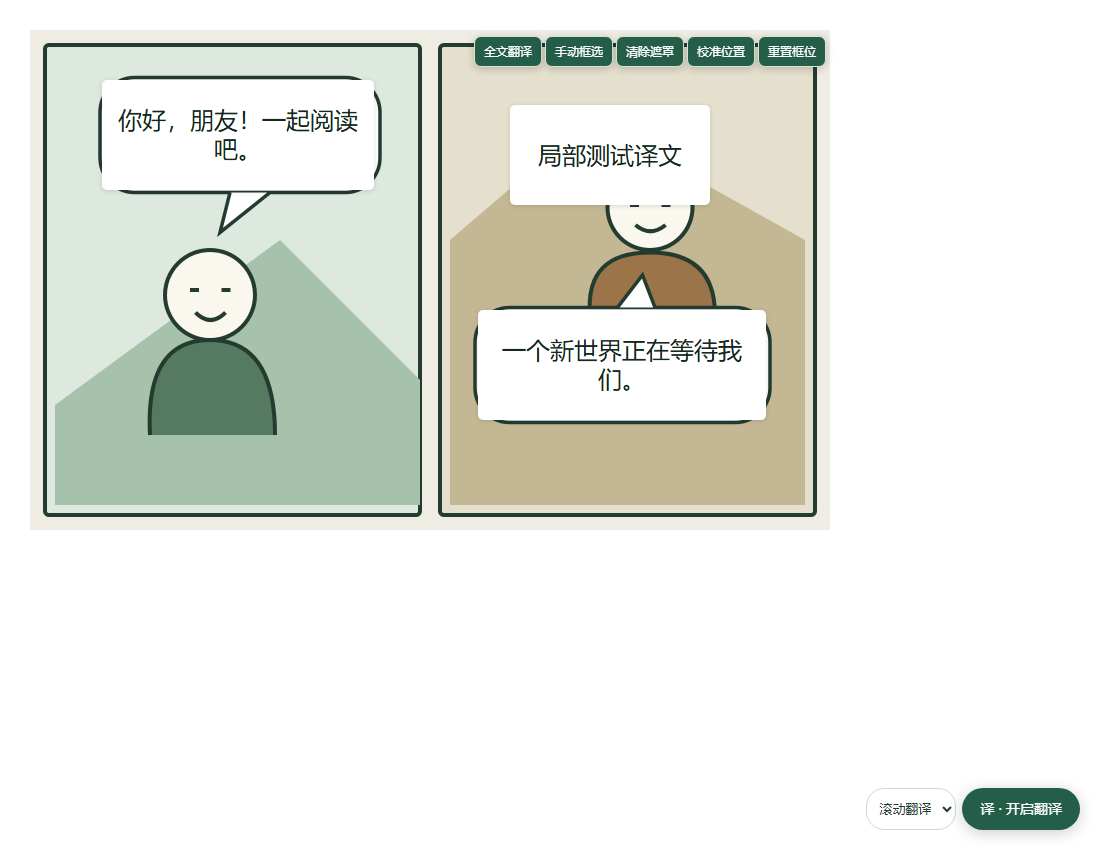
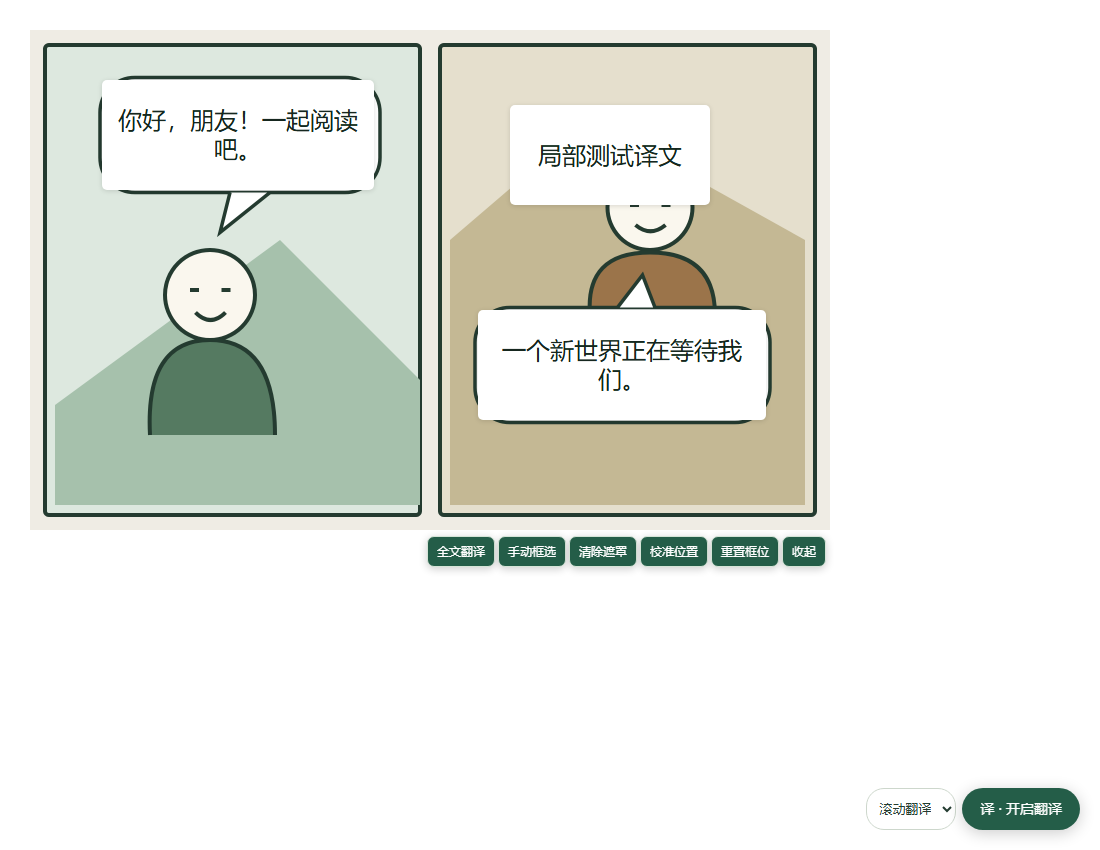
fix: keep image toolbar clear of bubble drag handles in v0.3.3

Changed region(s): [[0.3709, 0.6118, 0.7727, 0.6729], [0.4327, 0.0306, 0.7727, 0.0918]]

diff --git a/lib/image-ui.ts b/lib/image-ui.ts
@@ -5,6 +5,7 @@ import type { ImageLayout, Region } from './image-geometry';
 import { ImageOverlay } from './image-overlay';
 import { selectRegion } from './image-snip';
 import { DEFAULT_OVERLAY_STYLE, validateOverlayStyle, type OverlayStyle } from './overlay-style';
+import { placeImageToolbar } from './image-toolbar-layout';
 
 export interface ImageTransport {
   fetchImage(url:string,layout:ImageLayout):Promise<string>;
@@ -14,17 +15,32 @@ export interface ImageTransport {
 function signature(target:ImageTarget){const b=contentBox(target);return `${target instanceof HTMLImageElement?target.currentSrc:`${target.width}x${target.height}`}|${(b.w/b.h).toFixed(3)}`;}
 export function installImageUI(transport:ImageTransport,report:(text:string)=>void) {
   const host=document.createElement('div');host.dataset.blOwned='image-button';
-  Object.assign(host.style,{position:'fixed',zIndex:'2147483647',display:'none',maxWidth:'calc(100vw - 8px)'});
+  Object.assign(host.style,{position:'fixed',zIndex:'2147483647',display:'none',width:'max-content',maxWidth:'calc(100vw - 8px)'});
   const root=host.attachShadow({mode:'open'});
-  root.innerHTML='<style>:host{all:initial}.bar{display:flex;flex-wrap:wrap;gap:3px}button{font:12px system-ui;border:1px solid #d5e4d7;background:#245d48;color:#fff;border-radius:7px;padding:7px 9px;cursor:pointer;box-shadow:0 2px 8px #0003}button:disabled{opacity:.55;cursor:wait}button[hidden]{display:none}</style><div class="bar"><button id="full">全文翻译</button><button id="snip">手动框选</button><button id="clear" disabled>清除遮罩</button><button id="adjust" hidden>校准位置</button><button id="reset-layout" hidden>重置框位</button></div>';
+  root.innerHTML='<style>:host{all:initial}.bar{display:flex;flex-wrap:wrap;gap:3px;max-width:calc(100vw - 8px)}button{font:12px system-ui;border:1px solid #d5e4d7;background:#245d48;color:#fff;border-radius:7px;padding:7px 9px;cursor:pointer;box-shadow:0 2px 8px #0003}button:disabled{opacity:.55;cursor:wait}button[hidden],.bar[hidden]{display:none}</style><button id="expand" hidden aria-expanded="false" aria-controls="bar">图片工具</button><div class="bar" id="bar"><button id="full">全文翻译</button><button id="snip">手动框选</button><button id="clear" disabled>清除遮罩</button><button id="adjust" hidden>校准位置</button><button id="reset-layout" hidden>重置框位</button><button id="collapse" title="收起工具栏（Esc）" aria-label="收起图片工具栏">收起</button></div>';
   document.documentElement.append(host);
   const full=root.querySelector<HTMLButtonElement>('#full')!,snip=root.querySelector<HTMLButtonElement>('#snip')!,clear=root.querySelector<HTMLButtonElement>('#clear')!,adjust=root.querySelector<HTMLButtonElement>('#adjust')!;
   const resetLayout=root.querySelector<HTMLButtonElement>('#reset-layout')!;
+  const bar=root.querySelector<HTMLElement>('#bar')!,expand=root.querySelector<HTMLButtonElement>('#expand')!,collapse=root.querySelector<HTMLButtonElement>('#collapse')!;
+  let collapsed=false,expandedByUser=false,hideTimer:ReturnType<typeof setTimeout>|undefined;
   let style:OverlayStyle={...DEFAULT_OVERLAY_STYLE};
   let current:ImageTarget|undefined,lastContext:ImageTarget|undefined,epoch=0,cancelSelection:(()=>void)|undefined;
   const busy=new WeakSet<ImageTarget>(),overlays=new Map<ImageTarget,ImageOverlay>(),fullDone=new WeakSet<ImageTarget>();
   function overlayFor(target:ImageTarget){const o=overlays.get(target);if(o&&(o.host.dataset.stale||!o.host.isConnected)){o.destroy();overlays.delete(target);fullDone.delete(target);return undefined;}return o;}
-  function position(){if(!current?.isConnected){host.style.display='none';return;}const b=viewportContentBox(current),width=host.offsetWidth;host.style.left=`${Math.max(4,Math.min(innerWidth-width-4,b.left+b.width-width-4))}px`;host.style.top=`${Math.max(4,b.top+6)}px`;}
+  function position(){
+    if(!current?.isConnected){host.style.display='none';return;}if(host.style.display==='none')return;
+    const b=viewportContentBox(current),viewport={width:innerWidth,height:innerHeight};
+    if(b.top>=innerHeight||b.top+b.height<=0||b.left>=innerWidth||b.left+b.width<=0){host.style.visibility='hidden';return;}host.style.visibility='visible';
+    bar.hidden=collapsed;expand.hidden=!collapsed;
+    const obstacles=overlays.get(current)?.bubbleRects()??[];
+    let point=placeImageToolbar(b,{width:host.offsetWidth,height:host.offsetHeight},viewport,obstacles);
+    if(!point&&!collapsed&&!expandedByUser){bar.hidden=true;expand.hidden=false;point=placeImageToolbar(b,{width:host.offsetWidth,height:host.offsetHeight},viewport,obstacles);}
+    // If bubbles fill the viewport, keep the compact control clear of their handles.
+    if(!point)point=placeImageToolbar(b,{width:host.offsetWidth,height:host.offsetHeight},viewport,overlays.get(current)?.handleRects()??[]);
+    const width=host.offsetWidth,height=host.offsetHeight;
+    host.style.left=`${point?.left??Math.max(4,Math.min(innerWidth-width-4,b.left+b.width-width-4))}px`;
+    host.style.top=`${point?.top??Math.max(4,Math.min(innerHeight-height-4,b.top+6))}px`;
+  }
   function refresh(){const o=current?overlayFor(current):undefined;full.disabled=snip.disabled=current?busy.has(current):false;full.textContent=full.disabled?'翻译中…':'全文翻译';clear.disabled=!o;clear.textContent=o?.host.hidden?'恢复遮罩':'清除遮罩';adjust.hidden=resetLayout.hidden=!o;adjust.textContent=o?.editing?'完成校准':'校准位置';position();}
   async function translate(target:ImageTarget,crop?:Region){
     if(busy.has(target))return;
@@ -41,20 +57,25 @@ export function installImageUI(transport:ImageTransport,report:(text:string)=>vo
       if(!bubbles.length){report('所选图片中没有识别到可读对白。');return;}
       const previous=overlayFor(target);
       if(crop&&previous){previous.add(bubbles,true);previous.host.hidden=false;}
-      else{previous?.destroy();overlays.set(target,new ImageOverlay(target,bubbles,style));}
+      else{previous?.destroy();overlays.set(target,new ImageOverlay(target,bubbles,style,position));}
       if(!crop)fullDone.add(target);
       report(crop?'局部译文已放入选区。移到框上可拖动手柄调整。':`已翻译 ${bubbles.length} 个对白区域。框的左上角可移动，右下角可缩放。`);
     }catch(e){report(e instanceof Error?e.message:'图片翻译失败。');}
     finally{busy.delete(target);refresh();}
   }
   function beginSnip(){if(!current||busy.has(current))return;cancelSelection?.();const target=current;report('在图片上拖动框选，Esc 取消。');cancelSelection=selectRegion(target,crop=>{cancelSelection=undefined;if(crop)void translate(target,crop);else report('框选已取消或区域过小，未调用 API。');});}
-  const over=(e:Event)=>{const t=e.target;if(t===host||(t instanceof Element&&t.closest('[data-bl-owned]')))return;if(t instanceof HTMLImageElement||t instanceof HTMLCanvasElement){if(t.clientWidth<=300||t.clientHeight<=300){host.style.display='none';return;}if(current!==t)cancelSelection?.();current=t;host.style.display='block';refresh();}else if(!cancelSelection)host.style.display='none';};
+  const stopHide=()=>{clearTimeout(hideTimer);hideTimer=undefined;};
+  const over=(e:Event)=>{const t=e.target;stopHide();if(t===host||(t instanceof Element&&t.closest('[data-bl-owned]')))return;if(t instanceof HTMLImageElement||t instanceof HTMLCanvasElement){if(t.clientWidth<=300||t.clientHeight<=300){host.style.display='none';return;}if(current!==t){cancelSelection?.();collapsed=expandedByUser=false;}current=t;host.style.display='block';refresh();}else if(!cancelSelection)hideTimer=setTimeout(()=>{if(!root.activeElement)host.style.display='none';},200);};
   const context=(e:Event)=>{lastContext=e.target instanceof HTMLImageElement||e.target instanceof HTMLCanvasElement?e.target:undefined;};
   full.addEventListener('click',()=>{cancelSelection?.();if(current)void translate(current);});snip.addEventListener('click',beginSnip);
   clear.addEventListener('click',()=>{if(current){overlayFor(current)?.toggle();refresh();}});
   adjust.addEventListener('click',()=>{if(current){const editing=overlayFor(current)?.edit();report(editing?'拖动框移动，拖右下角手柄缩放；也支持 Shift + 拖动。':'校准完成。手柄仍可随时拖动。');refresh();}});
   resetLayout.addEventListener('click',()=>{if(current){overlayFor(current)?.resetLayout();report('已按默认大小恢复框位，未重复翻译。');}});
+  collapse.addEventListener('click',()=>{collapsed=true;expandedByUser=false;position();expand.focus();});
+  expand.addEventListener('click',()=>{collapsed=false;expandedByUser=true;position();collapse.focus();});
+  const key=(event:KeyboardEvent)=>{if(event.key==='Escape'&&!cancelSelection&&host.style.display!=='none'&&current){collapsed=true;expandedByUser=false;position();if(event.composedPath().includes(host))expand.focus();}};
   document.addEventListener('pointerover',over,true);document.addEventListener('contextmenu',context,true);window.addEventListener('scroll',position,true);window.addEventListener('resize',position);
+  document.addEventListener('keydown',key);
   function reset(){epoch++;cancelSelection?.();for(const [target,o] of overlays){o.destroy();fullDone.delete(target);}overlays.clear();refresh();}
-  return {setStyle:(value:OverlayStyle)=>{style=validateOverlayStyle(value);for(const o of overlays.values())o.setStyle(style);},contextTranslate:(url?:string)=>{const target=lastContext??Array.from(document.images).find(img=>img.currentSrc===url||img.src===url);if(target)void translate(target);else report('未找到图片，请使用图片工具条。');},reset,destroy:()=>{reset();host.remove();document.removeEventListener('pointerover',over,true);document.removeEventListener('contextmenu',context,true);window.removeEventListener('scroll',position,true);window.removeEventListener('resize',position);}};
+  return {setStyle:(value:OverlayStyle)=>{style=validateOverlayStyle(value);for(const o of overlays.values())o.setStyle(style);},contextTranslate:(url?:string)=>{const target=lastContext??Array.from(document.images).find(img=>img.currentSrc===url||img.src===url);if(target)void translate(target);else report('未找到图片，请使用图片工具条。');},reset,destroy:()=>{stopHide();reset();host.remove();document.removeEventListener('pointerover',over,true);document.removeEventListener('contextmenu',context,true);document.removeEventListener('keydown',key);window.removeEventListener('scroll',position,true);window.removeEventListener('resize',position);}};
 }

diff --git a/tests/image-toolbar-layout.test.ts b/tests/image-toolbar-layout.test.ts
@@ -1,0 +1,36 @@
+// SPDX-License-Identifier: GPL-3.0-only
+import { expect, it } from 'vitest';
+import { placeImageToolbar, type ToolbarRect } from '../lib/image-toolbar-layout';
+
+const viewport={width:1000,height:800},size={width:480,height:36};
+function check(image:ToolbarRect,bubbles:ToolbarRect[],toolbar=size,screen=viewport){
+  const p=placeImageToolbar(image,toolbar,screen,bubbles);
+  expect(p).toBeDefined();if(!p)throw new Error('No free position');
+  expect(p.left).toBeGreaterThanOrEqual(4);expect(p.top).toBeGreaterThanOrEqual(4);
+  expect(p.left+toolbar.width).toBeLessThanOrEqual(screen.width-4);expect(p.top+toolbar.height).toBeLessThanOrEqual(screen.height-4);
+  for(const b of bubbles)expect(p.left+toolbar.width<=b.left-6||p.left>=b.left+b.width+6||p.top+toolbar.height<=b.top-6||p.top>=b.top+b.height+6).toBe(true);
+  return p;
+}
+it('uses the margin above an image instead of covering its top-edge bubble',()=>{
+  const p=check({left:30,top:80,width:800,height:1500},[{left:430,top:80,width:220,height:140}]);
+  expect(p.top+size.height).toBeLessThan(80);
+});
+it('uses the bottom margin when there is no room above a short image',()=>{
+  const p=check({left:30,top:0,width:800,height:500},[{left:350,top:0,width:400,height:150}]);
+  expect(p.top).toBeGreaterThan(500);
+});
+it('avoids top bubbles when neither image margin fits on screen',()=>{
+  const p=check({left:0,top:0,width:800,height:1800},[{left:350,top:0,width:400,height:150}]);
+  expect(p.top).toBeGreaterThanOrEqual(156);
+});
+it('keeps the toolbar in view while a long image is scrolled',()=>{
+  check({left:0,top:-900,width:800,height:2200},[{left:350,top:-20,width:400,height:180}]);
+});
+it('avoids multiple bubbles in a narrow viewport with a wrapped toolbar',()=>{
+  check({left:0,top:0,width:360,height:1800},[{left:0,top:0,width:150,height:120},{left:220,top:160,width:140,height:180}],{width:352,height:72},{width:360,height:600});
+});
+it('reports a filled viewport so the UI can collapse rather than cover handles',()=>{
+  const image={left:0,top:0,width:1000,height:1800};
+  expect(placeImageToolbar(image,size,viewport,[image])).toBeUndefined();
+  check(image,[{left:1,top:1,width:20,height:20}],{width:90,height:36});
+});

diff --git a/lib/image-overlay.ts b/lib/image-overlay.ts
@@ -17,7 +17,7 @@ export class ImageOverlay {
   private style:OverlayStyle;
   private originals=new Map<HTMLElement,{bbox:Bubble['bbox'];manual:boolean}>();
   private cancelDrag?:()=>void;
-  constructor(private target:ImageTarget,bubbles:Bubble[],style:OverlayStyle=DEFAULT_OVERLAY_STYLE) {
+  constructor(private target:ImageTarget,bubbles:Bubble[],style:OverlayStyle=DEFAULT_OVERLAY_STYLE,private onLayout:()=>void=()=>{}) {
     this.style=validateOverlayStyle(style);
     this.parent=(target.parentElement?.tagName==='PICTURE'?target.parentElement.parentElement:target.parentElement)??document.body;
     const record=parents.get(this.parent);
@@ -86,7 +86,10 @@ export class ImageOverlay {
       const words=node.querySelector<HTMLElement>('.words')!;
       while(size>10&&(words.scrollHeight>words.clientHeight+1||words.scrollWidth>words.clientWidth+1)){size=Math.max(10,size-1);node.style.setProperty('--bl-font',`${size}px`);}
     }
+    this.onLayout();
   }
+  bubbleRects(){return this.host.hidden||!this.host.isConnected?[]:Array.from(this.root.querySelectorAll<HTMLElement>('.bubble'),node=>node.getBoundingClientRect());}
+  handleRects(){return this.host.hidden||!this.host.isConnected?[]:Array.from(this.root.querySelectorAll<HTMLElement>('.handle'),node=>node.getBoundingClientRect());}
   toggle(){this.host.hidden=!this.host.hidden;}
   edit(){this.cancelDrag?.();this.editing=!this.editing;this.host.hidden=false;this.host.toggleAttribute('data-editing',this.editing);return this.editing;}
   destroy(){if(this.disposed)return;this.disposed=true;this.cancelDrag?.();cancelAnimationFrame(this.frame);this.observer.disconnect();this.originals.clear();this.host.remove();const record=parents.get(this.parent);if(record&&!--record.count){if(this.parent.style.position==='relative')this.parent.style.position=record.original;parents.delete(this.parent);}}

diff --git a/lib/image-toolbar-layout.ts b/lib/image-toolbar-layout.ts
@@ -1,0 +1,21 @@
+// SPDX-License-Identifier: GPL-3.0-only
+export interface ToolbarRect {left:number;top:number;width:number;height:number}
+export interface ToolbarSize {width:number;height:number}
+const GAP=6,EDGE=4;
+function intersects(a:ToolbarRect,b:ToolbarRect){return a.left<b.left+b.width+GAP&&a.left+a.width>b.left-GAP&&a.top<b.top+b.height+GAP&&a.top+a.height>b.top-GAP;}
+/** Find a visible position without covering translated bubbles or their handles. */
+export function placeImageToolbar(image:ToolbarRect,size:ToolbarSize,viewport:ToolbarSize,obstacles:ToolbarRect[]):{left:number;top:number}|undefined {
+  const maxX=viewport.width-size.width-EDGE,maxY=viewport.height-size.height-EDGE;
+  if(maxX<EDGE||maxY<EDGE)return;
+  const clampX=(x:number)=>Math.max(EDGE,Math.min(maxX,x));
+  const right=clampX(image.left+image.width-size.width-EDGE),left=clampX(image.left+EDGE);
+  const clear=(x:number,y:number)=>y>=EDGE&&y<=maxY&&!obstacles.some(o=>intersects({left:x,top:y,...size},o));
+  // Prefer image margins; the toolbar never consumes the image's layout space.
+  for(const y of [image.top-size.height-GAP,image.top+image.height+GAP])if(clear(right,y))return {left:right,top:y};
+  const top=Math.max(EDGE,image.top+GAP),bottom=Math.min(maxY,image.top+image.height-size.height-GAP);
+  if(top>bottom)return;
+  const visible=obstacles.filter(o=>o.top+o.height>=top-GAP&&o.top<=bottom+size.height+GAP);
+  const xs=[...new Set([right,left,...visible.flatMap(o=>[clampX(o.left-size.width-GAP),clampX(o.left+o.width+GAP)])])];
+  const ys=[...new Set([top,bottom,...visible.flatMap(o=>[o.top-size.height-GAP,o.top+o.height+GAP])])].filter(y=>y>=top&&y<=bottom).sort((a,b)=>a-b);
+  for(const y of ys)for(const x of xs)if(clear(x,y))return {left:x,top:y};
+}

diff --git a/BUILDING.md b/BUILDING.md
@@ -1,6 +1,6 @@
 # Reproducible build / AMO source instructions
 
-Release: 0.3.2. License: GPL-3.0-only, with unmodified MIT runtime components.
+Release: 0.3.3. License: GPL-3.0-only, with unmodified MIT runtime components.
 
 ## Environment and commands
 
@@ -18,7 +18,7 @@ npm run zip
 
 `npm ci` downloads public packages from the official npm registry using `package-lock.json`. The WXT postinstall prepares local types. The optional esbuild native helper is a build tool, not extension runtime code. Do not run `npm update` or replace the lockfile when reproducing this release.
 
-Outputs are `dist/firefox-mv3/`, `dist/chrome-mv3/` and `dist/bilingual-lite-0.3.2-{firefox,chrome}.zip`. Compare extracted file contents rather than ZIP bytes, since archive timestamps may vary. Minification uses Vite; no obfuscation or remote execution is used. `web-ext` is pinned as a development tool for Mozilla validation and is not included in the installed extension.
+Outputs are `dist/firefox-mv3/`, `dist/chrome-mv3/` and `dist/bilingual-lite-0.3.3-{firefox,chrome}.zip`. Compare extracted file contents rather than ZIP bytes, since archive timestamps may vary. Minification uses Vite; no obfuscation or remote execution is used. `web-ext` is pinned as a development tool for Mozilla validation and is not included in the installed extension.
 
 PNG icons and legal texts are included in the source archive. `assets/icon.svg` is the original editable artwork. Regenerating PNGs is optional (`node scripts/create-icons.mjs`, with Playwright Chromium installed or `TEST_BROWSER_PATH` set), and is not part of the release build. The build records actually included npm runtime modules under `.wxt/license-audit/`; `npm run audit:licenses` regenerates their notices, module hashes and exact source snapshots. A new runtime dependency fails this audit pending license review.
 
@@ -28,7 +28,7 @@ PNG icons and legal texts are included in the source archive. `assets/icon.svg` 
 2. Load `dist/firefox-mv3/manifest.json` as a temporary extension using `about:debugging#/runtime/this-firefox`.
 3. In extension Options set API Endpoint to `http://127.0.0.1:8787/v1`, clear API Key, leave the default model names, and save.
 4. Open `http://127.0.0.1:8787/`, enable scrolling or whole-page translation, switch bilingual/translated-only, and scroll. The local server returns clearly labelled synthetic translations.
-5. Open `http://127.0.0.1:8787/manga`, hover the image, test full translation, manual crop, clear/restore and move/resize handles.
+5. Open `http://127.0.0.1:8787/manga`, hover the image, test full translation, manual crop, clear/restore and move/resize handles. The toolbar avoids bubbles and can be collapsed with its button or Esc (Esc cancels selection first).
 6. Close translation and confirm original content is restored. Ctrl+C stops the fixture server. No API key, account or payment is needed for this local workflow.
 
 These fixtures exercise actual extension networking, rendering and settings, but do not test a third-party model's translation quality. Real inference requires a user's BYOK service account; no credentials are distributed with the source or binary. If reviewers require live-service testing, the publisher must supply any temporary restricted credentials privately through AMO, never inside the public package.

diff --git a/store/AMO-LISTING.md b/store/AMO-LISTING.md
@@ -27,7 +27,7 @@
 
 项目主页：https://github.com/cyreneEGO093/bilingual-lite
 
-本版本完整源码：https://github.com/cyreneEGO093/bilingual-lite/releases/download/v0.3.2/bilingual-lite-0.3.2-source.zip
+本版本完整源码：https://github.com/cyreneEGO093/bilingual-lite/releases/download/v0.3.3/bilingual-lite-0.3.3-source.zip
 
 ## Other submission fields
 
@@ -35,9 +35,17 @@
 - Platform: desktop Firefox.
 - Icon: `assets/icon-512.png` or `public/icons/128.png` (upload separately).
 - Privacy policy: copy the complete `PRIVACY.md` text into AMO's privacy-policy field.
-- Source attachment: `bilingual-lite-0.3.2-source.zip`; build/review instructions: `BUILDING.md`.
+- Source attachment: `bilingual-lite-0.3.3-source.zip`; build/review instructions: `BUILDING.md`.
 - Homepage: https://github.com/cyreneEGO093/bilingual-lite
 - Support: https://github.com/cyreneEGO093/bilingual-lite/issues (no response or maintenance commitment).
 - Payment disclosure: API service may require a paid account; the extension is free.
+
+## Reviewer notes for 0.3.3
+
+This updates the existing add-on and retains its approved Gecko ID. It fixes the image toolbar covering translation bubble drag handles: the toolbar now prefers space outside the image, avoids bubbles, follows layout changes, and can be collapsed. No new permissions, dependencies, API behavior or data collection are introduced.
+
+The matching source attachment is `bilingual-lite-0.3.3-source.zip`. Build with Node.js 24 and npm 11: extract into an empty directory, run `npm ci`, `npm test`, `npm run build`, `npm run lint:firefox`, then `npm run zip`. The Firefox output is `dist/firefox-mv3/` and `dist/bilingual-lite-0.3.3-firefox.zip`. Compare extracted file contents, as ZIP timestamps may differ. Detailed instructions and an account-free local review server are in `BUILDING.md`.
+
+Validation: 85 automated tests, real extension interaction tests in Chrome 153 and Firefox 155, and Firefox lint with zero errors, warnings or notices. All interaction fixtures use local mock responses; no API credentials are included.
 
 This file is not part of the installable extension ZIP.

diff --git a/store/RELEASE-0.3.3.md b/store/RELEASE-0.3.3.md
@@ -1,0 +1,19 @@
+# 双语轻译 · Bilingual Lite v0.3.3
+
+修复图片顶部的工具栏遮住译文框手柄、导致无法拖动的问题。
+
+- 工具栏优先放在图片外侧；空间不足时避开译文框，随滚动、窗口缩放及框位调整重新定位。
+- 增加“收起”按钮，按 Esc 也可收起，再点“图片工具”展开；框选期间 Esc 仍优先取消选区。
+- 空间拥挤时自动收起，窄窗口下按钮可换行。
+- README 添加 Firefox 商店安装入口。0.3.3 沿用 0.3.2 的扩展 ID，在原商店项目内提交更新。
+
+验证：85 项自动测试通过；Chrome 153 / Firefox 155 完成真实扩展交互测试，包括顶部气泡拖动与缩放、长图滚动、窄窗口、工具栏收起／展开及框选取消；Mozilla 检查为 0 errors / 0 warnings / 0 notices。拖动、工具栏操作不增加模型请求。运行时依赖未变更，保留第三方 MIT 许可声明。
+
+- `bilingual-lite-0.3.3-firefox.zip`：未签名的 Firefox 商店提交／临时加载包。
+- `bilingual-lite-0.3.3-chrome.zip`：Chrome / Chromium 包。
+- `bilingual-lite-0.3.3-source.zip`：对应完整源码、锁文件和构建说明，审核时单独上传。
+- `bilingual-lite-0.3.3-SHA256.txt`：以上附件校验值。
+
+日常安装请使用 [Firefox 商店](https://addons.mozilla.org/zh-CN/firefox/addon/bilingual-lite/)。GitHub 发布不等于商店更新已审核，以商店显示的版本号为准。
+
+本项目为自用项目，完全由 GPT-6 Astra 以 vibe coding 方式开发，不保证可靠性或后续维护。许可：GPL-3.0-only。项目与使用说明：https://github.com/cyreneEGO093/bilingual-lite

diff --git a/USAGE.md b/USAGE.md
@@ -43,6 +43,8 @@
 
 图片展示尺寸大于 300×300 时，鼠标悬停会出现工具栏。
 
+工具栏优先显示在图片外侧，空间不足时自动避开译文框；滚动和调整框位后会重新定位。点击“收起”或按 Esc 可缩成“图片工具”按钮，再次点击即可展开。框选期间 Esc 仍用于取消选区。
+
 - **全文翻译**：请求识别并翻译整图文字，按模型提供的坐标覆盖。再次点击优先复用当前页面已有结果。
 - **手动框选**：在图片上拖出矩形，只发送该区域。可以反向拖动，按 Esc 取消。选框太小或被取消时不会请求模型。
 - **清除遮罩／恢复遮罩**：隐藏或显示当前译文，不调用 API。
